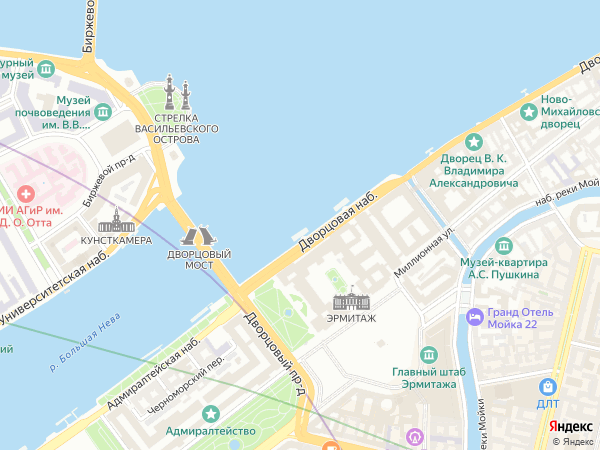
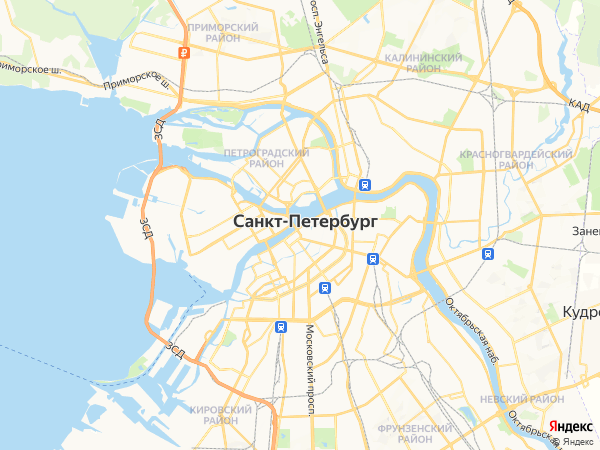
масшабирование через PqUp и PqDown (задание 2)

diff --git a/main.py b/main.py
@@ -1,8 +1,26 @@
 import sys
-from PyQt5.QtWidgets import (QMainWindow, QWidget, QApplication, QLabel)
+import requests
+from typing import List
+from dataclasses import dataclass, field
+from PyQt5.QtWidgets import (QMainWindow, QWidget, QApplication)
 from PyQt5.QtGui import QPixmap
-from PyQt5 import uic
-from support import get_place_toponym, get_place_map
+from PyQt5 import uic, QtGui, QtCore, QtWidgets
+from PyQt5.QtCore import Qt
+from support import get_place_map
+
+
+if hasattr(QtCore.Qt, 'AA_EnableHighDpiScaling'):
+    QtWidgets.QApplication.setAttribute(QtCore.Qt.AA_EnableHighDpiScaling, True)
+
+if hasattr(QtCore.Qt, 'AA_UseHighDpiPixmaps'):
+    QtWidgets.QApplication.setAttribute(QtCore.Qt.AA_UseHighDpiPixmaps, True)
+
+
+@dataclass
+class MapsData:
+    scale: int = 10
+    coords: List[float] = field(default_factory=list)
+    display: str = "map"
 
 
 class MainWindow(QMainWindow):
@@ -10,24 +28,42 @@ class MainWindow(QMainWindow):
         super(QMainWindow, self).__init__()
         self.setupUI()
 
-    def setupUI(self):
-        self.coords = [30.312363709126018, 59.94157564755226]
+    def setupUI(self) -> None:
+        self.setupData()
         self.setWindowTitle("Best Yandex Maps App")
         uic.loadUi("UI/MainWindow.ui", self)
         self.getPicture()
 
-    def getPicture(self):
-        response = get_place_map(self.coords)
+    def setupData(self) -> None:
+        self.data = MapsData()
+        self.data.coords = [30.312363709126018, 59.94157564755226]
+
+    def getPicture(self) -> None:
+        response = get_place_map(self.data)
         if response:
             self.setPicture(response)
         else:
             raise Exception("invalid request", response.status_code, response.reason)
 
-    def setPicture(self, response):
+    def setPicture(self, response: requests.Response) -> None:
         with open("image.png", "wb") as file:
             file.write(response.content)
         pixmap = QPixmap("image.png")
         self.picture.setPixmap(pixmap)
+        print(1)
+
+    def keyPressEvent(self, event: QtGui.QKeyEvent) -> None:
+        key = event.key()
+
+        if key == Qt.Key.Key_PageUp:
+            if self.data.scale != 17:
+                self.data.scale += 1
+                self.getPicture()
+
+        elif key == Qt.Key.Key_PageDown:
+            if self.data.scale != 0:
+                self.data.scale -= 1
+                self.getPicture()
 
 
 if __name__ == '__main__':

diff --git a/support.py b/support.py
@@ -16,11 +16,11 @@ def get_place_toponym(place: str) -> requests.Response:
 
 
 # получаем ответ от static maps
-def get_place_map(coords: list) -> requests.Response:
+def get_place_map(data) -> requests.Response:
     map_params = {
-        "ll": ",".join(list(map(str, coords))),
-        'l': 'map',
-        "z": 15
+        "ll": ",".join(list(map(str, data.coords))),
+        'l': data.display,
+        "z": data.scale
     }
 
     map_api_server = "http://static-maps.yandex.ru/1.x/"
